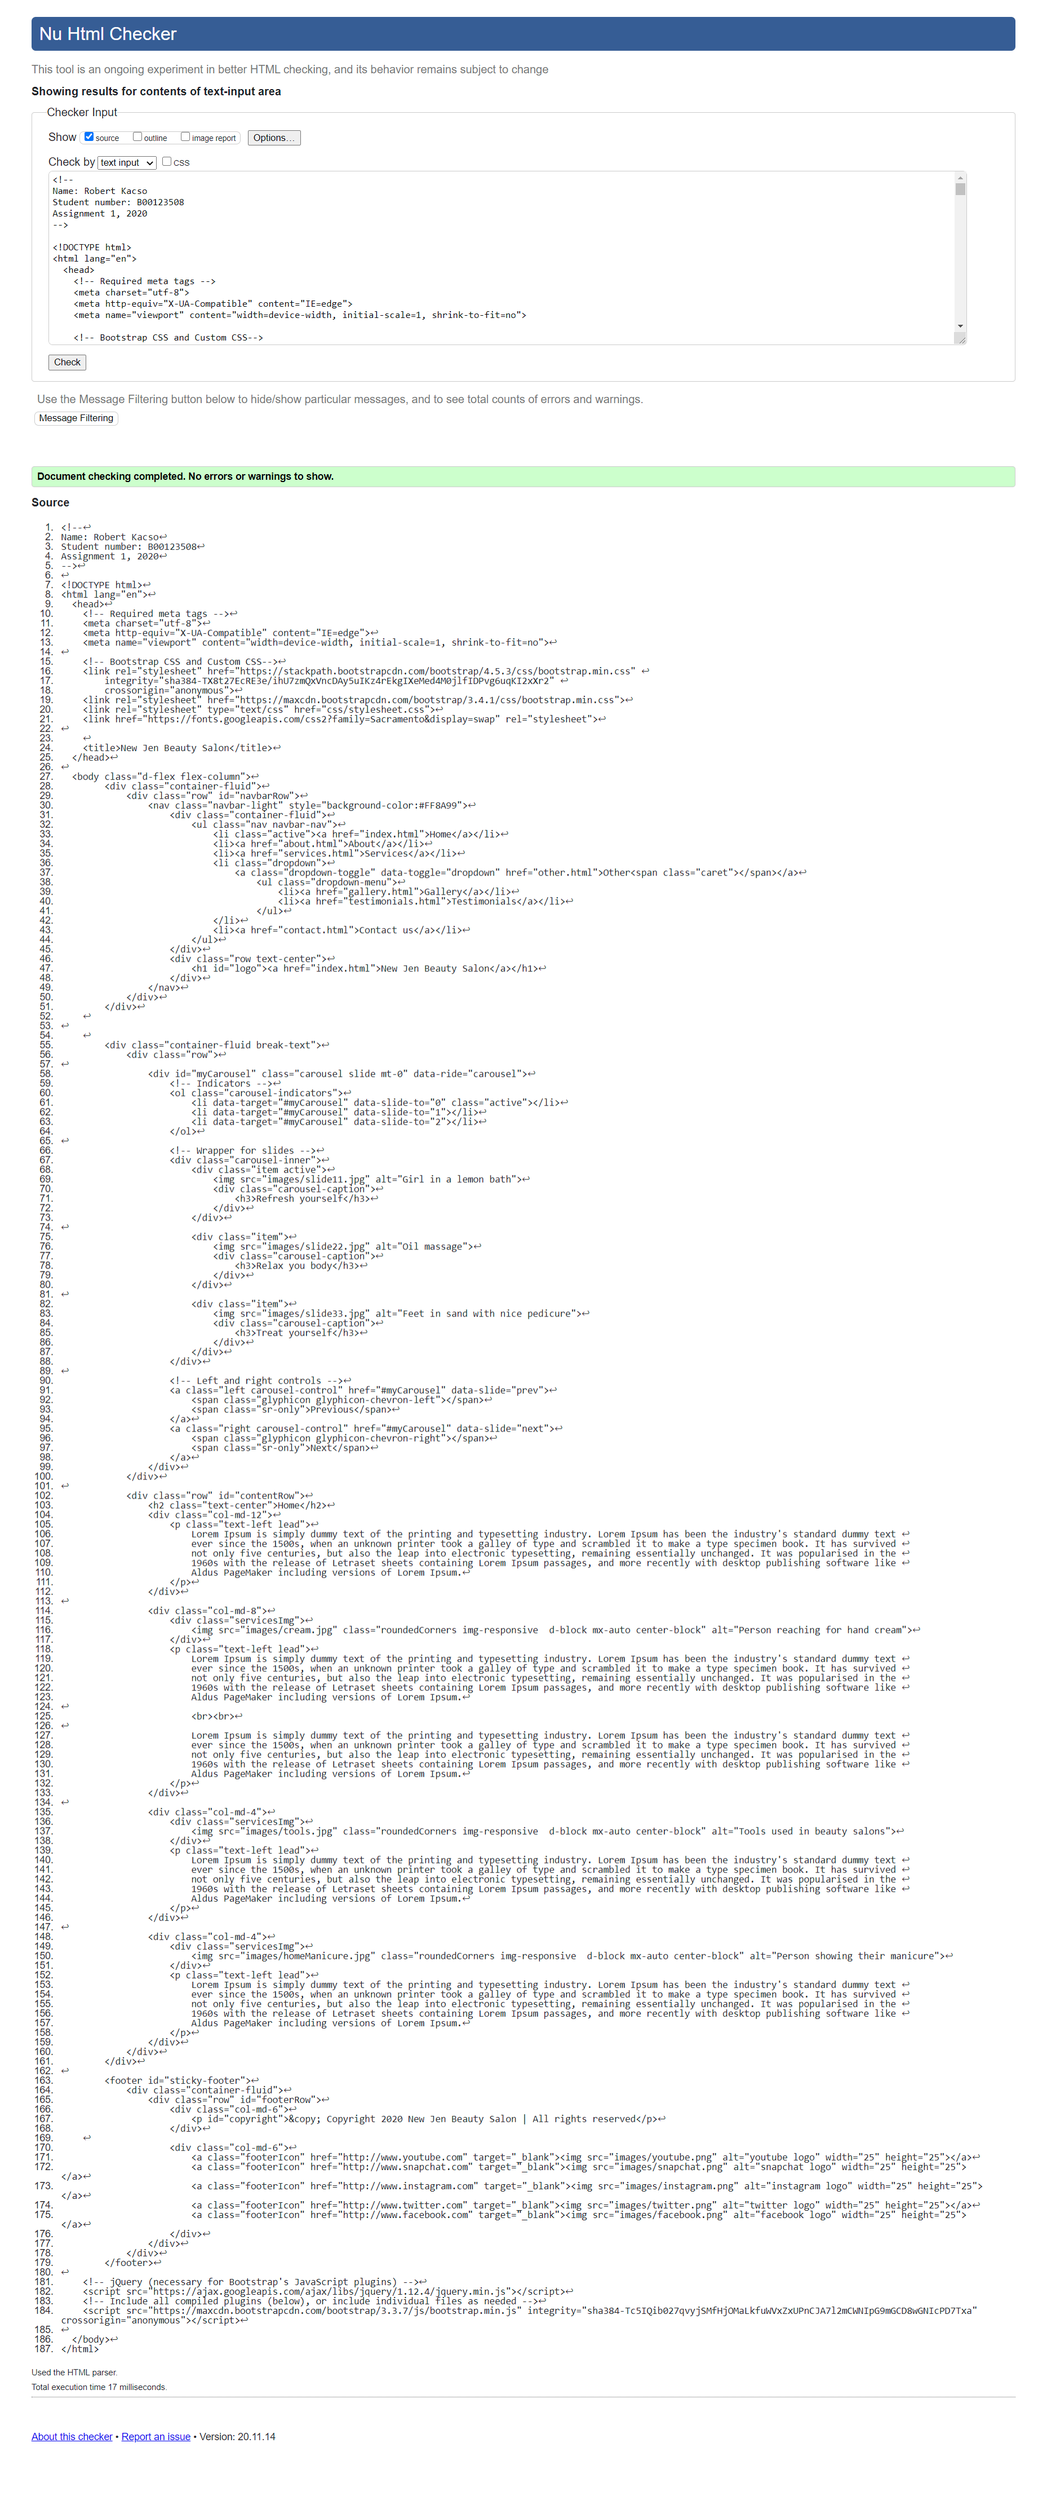
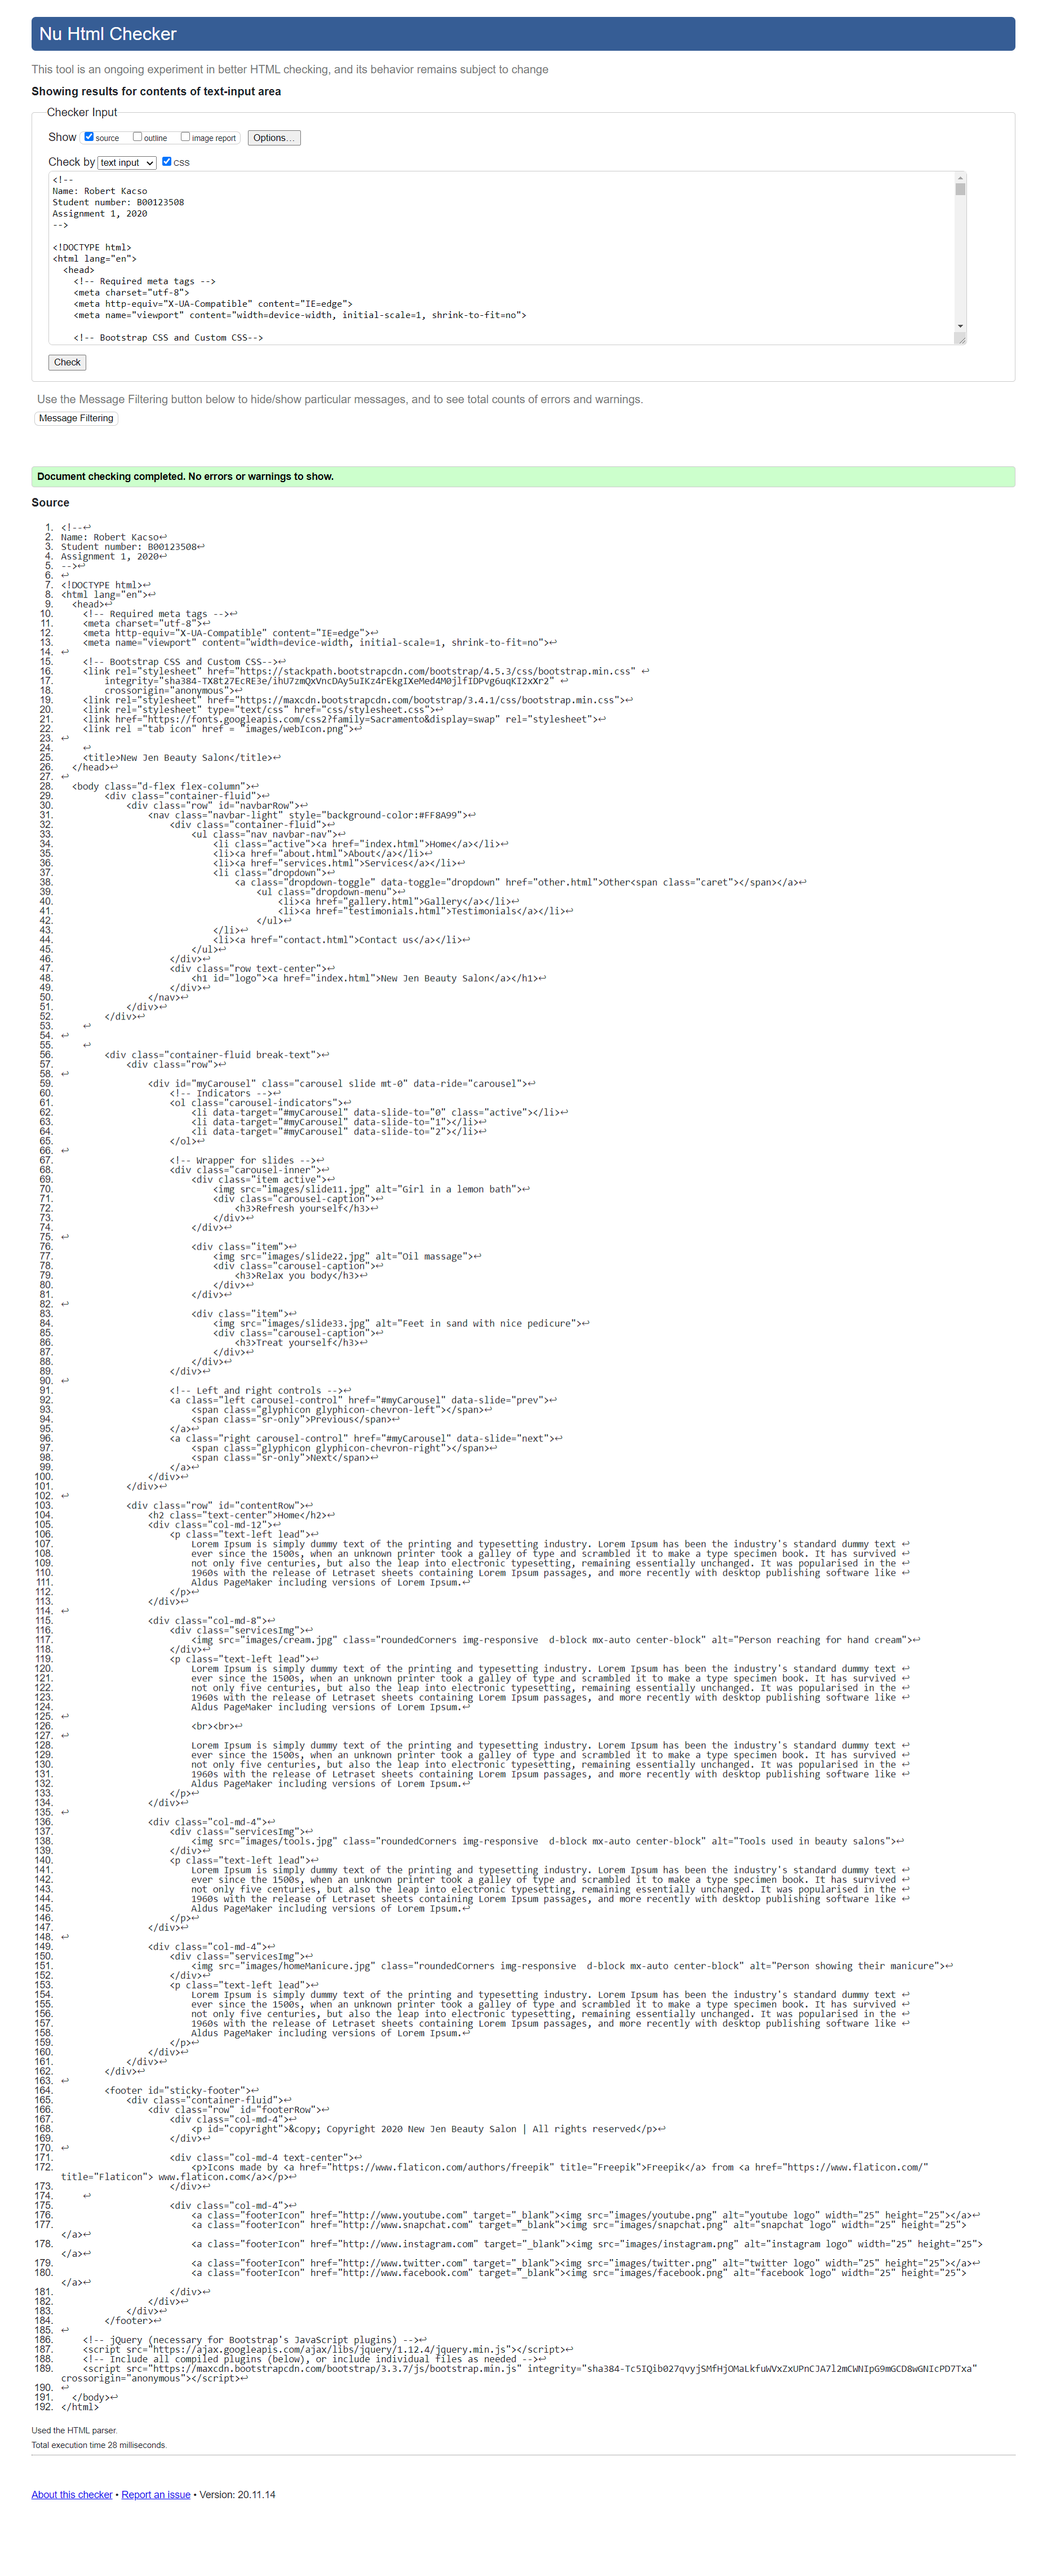
Add files via upload

Changed region(s): [[0.0312, 0.0, 0.9677, 0.9648], [0.2497, 0.0934, 0.2809, 0.1245]]

diff --git a/testimonials.html b/testimonials.html
@@ -19,6 +19,7 @@ Assignment 1, 2020
     <link rel="stylesheet" href="https://maxcdn.bootstrapcdn.com/bootstrap/3.4.1/css/bootstrap.min.css">
     <link rel="stylesheet" type="text/css" href="css/stylesheet.css">
     <link href="https://fonts.googleapis.com/css2?family=Sacramento&display=swap" rel="stylesheet">
+    <link rel ="tab icon" href = "images/webIcon.png">
 
     
     <title>New Jen Beauty Salon</title>
@@ -101,22 +102,26 @@ Assignment 1, 2020
         </div>
 
         <footer id="sticky-footer">
-            <div class="container-fluid">
-                <div class="row" id="footerRow">
-                    <div class="col-md-6">
-                        <p id="copyright">&copy; Copyright 2020 New Jen Beauty Salon | All rights reserved</p>
-                    </div>
-    
-                    <div class="col-md-6">
-                        <a class="footerIcon" href="http://www.youtube.com" target="_blank"><img src="images/youtube.png" alt="youtube logo" width="25" height="25"></a>
-                        <a class="footerIcon" href="http://www.snapchat.com" target="_blank"><img src="images/snapchat.png" alt="snapchat logo" width="25" height="25"></a>
-                        <a class="footerIcon" href="http://www.instagram.com" target="_blank"><img src="images/instagram.png" alt="instagram logo" width="25" height="25"></a>
-                        <a class="footerIcon" href="http://www.twitter.com" target="_blank"><img src="images/twitter.png" alt="twitter logo" width="25" height="25"></a>
-                        <a class="footerIcon" href="http://www.facebook.com" target="_blank"><img src="images/facebook.png" alt="facebook logo" width="25" height="25"></a>
-                    </div>
-                </div>
-            </div>
-        </footer>
+          <div class="container-fluid">
+              <div class="row" id="footerRow">
+                  <div class="col-md-4">
+                      <p id="copyright">&copy; Copyright 2020 New Jen Beauty Salon | All rights reserved</p>
+                  </div>
+
+                  <div class="col-md-4 text-center">
+                      <p>Icons made by <a href="https://www.flaticon.com/authors/freepik" title="Freepik">Freepik</a> from <a href="https://www.flaticon.com/" title="Flaticon"> www.flaticon.com</a></p>
+                  </div>
+  
+                  <div class="col-md-4">
+                      <a class="footerIcon" href="http://www.youtube.com" target="_blank"><img src="images/youtube.png" alt="youtube logo" width="25" height="25"></a>
+                      <a class="footerIcon" href="http://www.snapchat.com" target="_blank"><img src="images/snapchat.png" alt="snapchat logo" width="25" height="25"></a>
+                      <a class="footerIcon" href="http://www.instagram.com" target="_blank"><img src="images/instagram.png" alt="instagram logo" width="25" height="25"></a>
+                      <a class="footerIcon" href="http://www.twitter.com" target="_blank"><img src="images/twitter.png" alt="twitter logo" width="25" height="25"></a>
+                      <a class="footerIcon" href="http://www.facebook.com" target="_blank"><img src="images/facebook.png" alt="facebook logo" width="25" height="25"></a>
+                  </div>
+              </div>
+          </div>
+      </footer>
 
     <!-- jQuery (necessary for Bootstrap's JavaScript plugins) -->
     <script src="https://ajax.googleapis.com/ajax/libs/jquery/1.12.4/jquery.min.js"></script>

diff --git a/about.html b/about.html
@@ -19,6 +19,7 @@ Assignment 1, 2020
     <link rel="stylesheet" href="https://maxcdn.bootstrapcdn.com/bootstrap/3.4.1/css/bootstrap.min.css">
     <link rel="stylesheet" type="text/css" href="css/stylesheet.css">
     <link href="https://fonts.googleapis.com/css2?family=Sacramento&display=swap" rel="stylesheet">
+    <link rel ="tab icon" href = "images/webIcon.png">
 
     
     <title>New Jen Beauty Salon</title>
@@ -109,16 +110,20 @@ Assignment 1, 2020
         <footer id="sticky-footer">
           <div class="container-fluid">
               <div class="row" id="footerRow">
-                  <div class="col-md-6">
+                  <div class="col-md-4">
                       <p id="copyright">&copy; Copyright 2020 New Jen Beauty Salon | All rights reserved</p>
                   </div>
+
+                  <div class="col-md-4 text-center">
+                      <p>Icons made by <a href="https://www.flaticon.com/authors/freepik" title="Freepik">Freepik</a> from <a href="https://www.flaticon.com/" title="Flaticon"> www.flaticon.com</a></p>
+                  </div>
   
-                  <div class="col-md-6">
-                    <a class="footerIcon" href="http://www.youtube.com" target="_blank"><img src="images/youtube.png" alt="youtube logo" width="25" height="25"></a>
-                    <a class="footerIcon" href="http://www.snapchat.com" target="_blank"><img src="images/snapchat.png" alt="snapchat logo" width="25" height="25"></a>
-                    <a class="footerIcon" href="http://www.instagram.com" target="_blank"><img src="images/instagram.png" alt="instagram logo" width="25" height="25"></a>
-                    <a class="footerIcon" href="http://www.twitter.com" target="_blank"><img src="images/twitter.png" alt="twitter logo" width="25" height="25"></a>
-                    <a class="footerIcon" href="http://www.facebook.com" target="_blank"><img src="images/facebook.png" alt="facebook logo" width="25" height="25"></a>
+                  <div class="col-md-4">
+                      <a class="footerIcon" href="http://www.youtube.com" target="_blank"><img src="images/youtube.png" alt="youtube logo" width="25" height="25"></a>
+                      <a class="footerIcon" href="http://www.snapchat.com" target="_blank"><img src="images/snapchat.png" alt="snapchat logo" width="25" height="25"></a>
+                      <a class="footerIcon" href="http://www.instagram.com" target="_blank"><img src="images/instagram.png" alt="instagram logo" width="25" height="25"></a>
+                      <a class="footerIcon" href="http://www.twitter.com" target="_blank"><img src="images/twitter.png" alt="twitter logo" width="25" height="25"></a>
+                      <a class="footerIcon" href="http://www.facebook.com" target="_blank"><img src="images/facebook.png" alt="facebook logo" width="25" height="25"></a>
                   </div>
               </div>
           </div>

diff --git a/contact.html b/contact.html
@@ -19,6 +19,7 @@ Assignment 1, 2020
     <link rel="stylesheet" href="https://maxcdn.bootstrapcdn.com/bootstrap/3.4.1/css/bootstrap.min.css">
     <link rel="stylesheet" type="text/css" href="css/stylesheet.css">
     <link href="https://fonts.googleapis.com/css2?family=Sacramento&display=swap" rel="stylesheet">
+    <link rel ="tab icon" href = "images/webIcon.png">
 
     
     <title>New Jen Beauty Salon</title>
@@ -148,16 +149,20 @@ Assignment 1, 2020
         <footer id="sticky-footer">
           <div class="container-fluid">
               <div class="row" id="footerRow">
-                  <div class="col-md-6">
+                  <div class="col-md-4">
                       <p id="copyright">&copy; Copyright 2020 New Jen Beauty Salon | All rights reserved</p>
                   </div>
+
+                  <div class="col-md-4 text-center">
+                      <p>Icons made by <a href="https://www.flaticon.com/authors/freepik" title="Freepik">Freepik</a> from <a href="https://www.flaticon.com/" title="Flaticon"> www.flaticon.com</a></p>
+                  </div>
   
-                  <div class="col-md-6">
-                    <a class="footerIcon" href="http://www.youtube.com" target="_blank"><img src="images/youtube.png" alt="youtube logo" width="25" height="25"></a>
-                    <a class="footerIcon" href="http://www.snapchat.com" target="_blank"><img src="images/snapchat.png" alt="snapchat logo" width="25" height="25"></a>
-                    <a class="footerIcon" href="http://www.instagram.com" target="_blank"><img src="images/instagram.png" alt="instagram logo" width="25" height="25"></a>
-                    <a class="footerIcon" href="http://www.twitter.com" target="_blank"><img src="images/twitter.png" alt="twitter logo" width="25" height="25"></a>
-                    <a class="footerIcon" href="http://www.facebook.com" target="_blank"><img src="images/facebook.png" alt="facebook logo" width="25" height="25"></a>
+                  <div class="col-md-4">
+                      <a class="footerIcon" href="http://www.youtube.com" target="_blank"><img src="images/youtube.png" alt="youtube logo" width="25" height="25"></a>
+                      <a class="footerIcon" href="http://www.snapchat.com" target="_blank"><img src="images/snapchat.png" alt="snapchat logo" width="25" height="25"></a>
+                      <a class="footerIcon" href="http://www.instagram.com" target="_blank"><img src="images/instagram.png" alt="instagram logo" width="25" height="25"></a>
+                      <a class="footerIcon" href="http://www.twitter.com" target="_blank"><img src="images/twitter.png" alt="twitter logo" width="25" height="25"></a>
+                      <a class="footerIcon" href="http://www.facebook.com" target="_blank"><img src="images/facebook.png" alt="facebook logo" width="25" height="25"></a>
                   </div>
               </div>
           </div>

diff --git a/gallery.html b/gallery.html
@@ -19,6 +19,7 @@ Assignment 1, 2020
     <link rel="stylesheet" href="https://maxcdn.bootstrapcdn.com/bootstrap/3.4.1/css/bootstrap.min.css">
     <link rel="stylesheet" type="text/css" href="css/stylesheet.css">
     <link href="https://fonts.googleapis.com/css2?family=Sacramento&display=swap" rel="stylesheet">
+    <link rel ="tab icon" href = "images/webIcon.png">
 
     
     <title>New Jen Beauty Salon</title>
@@ -138,11 +139,15 @@ Assignment 1, 2020
         <footer id="sticky-footer">
             <div class="container-fluid">
                 <div class="row" id="footerRow">
-                    <div class="col-md-6">
+                    <div class="col-md-4">
                         <p id="copyright">&copy; Copyright 2020 New Jen Beauty Salon | All rights reserved</p>
                     </div>
+
+                    <div class="col-md-4 text-center">
+                        <p>Icons made by <a href="https://www.flaticon.com/authors/freepik" title="Freepik">Freepik</a> from <a href="https://www.flaticon.com/" title="Flaticon"> www.flaticon.com</a></p>
+                    </div>
     
-                    <div class="col-md-6">
+                    <div class="col-md-4">
                         <a class="footerIcon" href="http://www.youtube.com" target="_blank"><img src="images/youtube.png" alt="youtube logo" width="25" height="25"></a>
                         <a class="footerIcon" href="http://www.snapchat.com" target="_blank"><img src="images/snapchat.png" alt="snapchat logo" width="25" height="25"></a>
                         <a class="footerIcon" href="http://www.instagram.com" target="_blank"><img src="images/instagram.png" alt="instagram logo" width="25" height="25"></a>

diff --git a/index.html b/index.html
@@ -19,6 +19,7 @@ Assignment 1, 2020
     <link rel="stylesheet" href="https://maxcdn.bootstrapcdn.com/bootstrap/3.4.1/css/bootstrap.min.css">
     <link rel="stylesheet" type="text/css" href="css/stylesheet.css">
     <link href="https://fonts.googleapis.com/css2?family=Sacramento&display=swap" rel="stylesheet">
+    <link rel ="tab icon" href = "images/webIcon.png">
 
     
     <title>New Jen Beauty Salon</title>
@@ -163,11 +164,15 @@ Assignment 1, 2020
         <footer id="sticky-footer">
             <div class="container-fluid">
                 <div class="row" id="footerRow">
-                    <div class="col-md-6">
+                    <div class="col-md-4">
                         <p id="copyright">&copy; Copyright 2020 New Jen Beauty Salon | All rights reserved</p>
                     </div>
+
+                    <div class="col-md-4 text-center">
+                        <p>Icons made by <a href="https://www.flaticon.com/authors/freepik" title="Freepik">Freepik</a> from <a href="https://www.flaticon.com/" title="Flaticon"> www.flaticon.com</a></p>
+                    </div>
     
-                    <div class="col-md-6">
+                    <div class="col-md-4">
                         <a class="footerIcon" href="http://www.youtube.com" target="_blank"><img src="images/youtube.png" alt="youtube logo" width="25" height="25"></a>
                         <a class="footerIcon" href="http://www.snapchat.com" target="_blank"><img src="images/snapchat.png" alt="snapchat logo" width="25" height="25"></a>
                         <a class="footerIcon" href="http://www.instagram.com" target="_blank"><img src="images/instagram.png" alt="instagram logo" width="25" height="25"></a>

diff --git a/services.html b/services.html
@@ -19,6 +19,7 @@ Assignment 1, 2020
     <link rel="stylesheet" href="https://maxcdn.bootstrapcdn.com/bootstrap/3.4.1/css/bootstrap.min.css">
     <link rel="stylesheet" type="text/css" href="css/stylesheet.css">
     <link href="https://fonts.googleapis.com/css2?family=Sacramento&display=swap" rel="stylesheet">
+    <link rel ="tab icon" href = "images/webIcon.png">
 
     
     <title>New Jen Beauty Salon</title>
@@ -144,11 +145,15 @@ Assignment 1, 2020
         <footer id="sticky-footer">
             <div class="container-fluid">
                 <div class="row" id="footerRow">
-                    <div class="col-md-6">
+                    <div class="col-md-4">
                         <p id="copyright">&copy; Copyright 2020 New Jen Beauty Salon | All rights reserved</p>
                     </div>
+
+                    <div class="col-md-4 text-center">
+                        <p>Icons made by <a href="https://www.flaticon.com/authors/freepik" title="Freepik">Freepik</a> from <a href="https://www.flaticon.com/" title="Flaticon"> www.flaticon.com</a></p>
+                    </div>
     
-                    <div class="col-md-6">
+                    <div class="col-md-4">
                         <a class="footerIcon" href="http://www.youtube.com" target="_blank"><img src="images/youtube.png" alt="youtube logo" width="25" height="25"></a>
                         <a class="footerIcon" href="http://www.snapchat.com" target="_blank"><img src="images/snapchat.png" alt="snapchat logo" width="25" height="25"></a>
                         <a class="footerIcon" href="http://www.instagram.com" target="_blank"><img src="images/instagram.png" alt="instagram logo" width="25" height="25"></a>

diff --git a/other.html b/other.html
@@ -19,6 +19,7 @@ Assignment 1, 2020
     <link rel="stylesheet" href="https://maxcdn.bootstrapcdn.com/bootstrap/3.4.1/css/bootstrap.min.css">
     <link rel="stylesheet" type="text/css" href="css/stylesheet.css">
     <link href="https://fonts.googleapis.com/css2?family=Sacramento&display=swap" rel="stylesheet">
+    <link rel ="tab icon" href = "images/webIcon.png">
 
     
     <title>New Jen Beauty Salon</title>
@@ -67,11 +68,15 @@ Assignment 1, 2020
         <footer id="sticky-footer">
             <div class="container-fluid">
                 <div class="row" id="footerRow">
-                    <div class="col-md-6">
+                    <div class="col-md-4">
                         <p id="copyright">&copy; Copyright 2020 New Jen Beauty Salon | All rights reserved</p>
                     </div>
+
+                    <div class="col-md-4 text-center">
+                        <p>Icons made by <a href="https://www.flaticon.com/authors/freepik" title="Freepik">Freepik</a> from <a href="https://www.flaticon.com/" title="Flaticon"> www.flaticon.com</a></p>
+                    </div>
     
-                    <div class="col-md-6">
+                    <div class="col-md-4">
                         <a class="footerIcon" href="http://www.youtube.com" target="_blank"><img src="images/youtube.png" alt="youtube logo" width="25" height="25"></a>
                         <a class="footerIcon" href="http://www.snapchat.com" target="_blank"><img src="images/snapchat.png" alt="snapchat logo" width="25" height="25"></a>
                         <a class="footerIcon" href="http://www.instagram.com" target="_blank"><img src="images/instagram.png" alt="instagram logo" width="25" height="25"></a>
